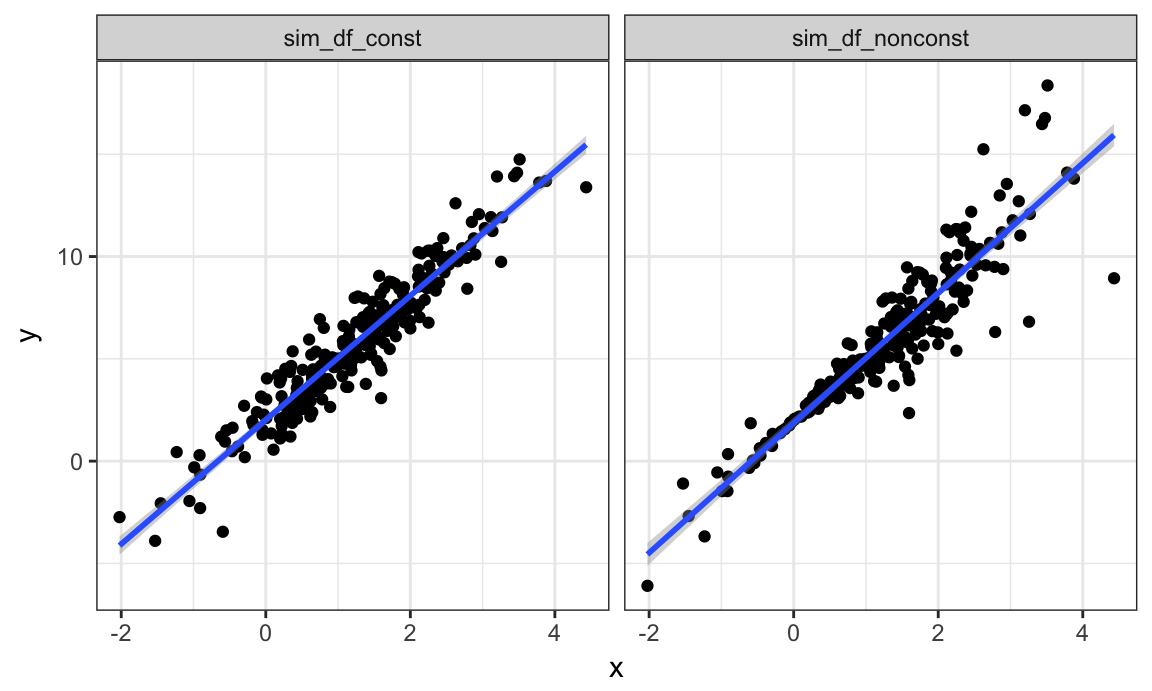
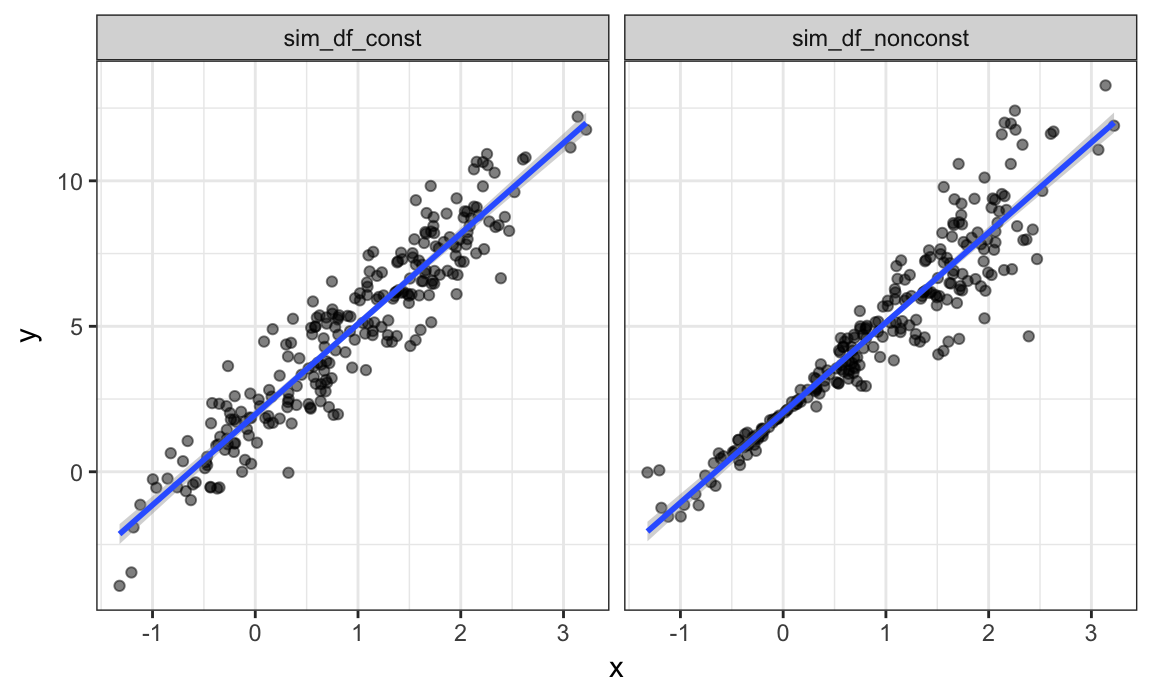
final polishing for listcols_and_bootstrapping

diff --git a/listcols_and_bootstrapping.html b/listcols_and_bootstrapping.html
@@ -695,9 +695,9 @@ instacart_nest
 <p>I’ve used another way to implement <code>nest</code> by preceding that function with a <code>group_by</code> call. I’ve also used <code>filter</code> after <code>nest</code>; in fact, data frames with list columns can be manipulated in the same ways as other data frames using <code>tidyverse</code> tools.</p>
 <p>Instead of fitting a regression, I’d like to extract a summary of <code>order_hour_of_day</code> for each department-specific data frame. The <code>summary</code> function produces a nice collection of metrics, but not a data frame; luckily the <code>broom::tidy</code> function is applicable here as well.</p>
 <pre class="r"><code>instacart_nest %&gt;% 
-  mutate(sub_df = map(data, ~summary(.x[[&quot;order_hour_of_day&quot;]])),
-         tidy_summary = map(sub_df, broom::tidy)) %&gt;% 
-  select(-data, -sub_df) %&gt;% 
+  mutate(order_hour_summary = map(data, ~summary(.x[[&quot;order_hour_of_day&quot;]])),
+         tidy_summary = map(order_hour_summary, broom::tidy)) %&gt;% 
+  select(-data, -order_hour_summary) %&gt;% 
   unnest()
 ## # A tibble: 4 x 7
 ##   department minimum    q1 median     mean    q3 maximum
@@ -717,7 +717,9 @@ instacart_nest
 <div id="bootstrapping-in-slr" class="section level3">
 <h3>Bootstrapping in SLR</h3>
 <p>Let’s look at a couple of simulated data sets. Both are generated from a simple linear regression, but they have different error distributions.</p>
-<pre class="r"><code>n_samp = 250
+<pre class="r"><code>set.seed(10)
+
+n_samp = 250
 
 sim_df_const = tibble(
   x = rnorm(n_samp, 1, 1),
@@ -736,7 +738,7 @@ bind_rows(
   mutate(sim_df_nonconst, data = &quot;sim_df_nonconst&quot;)
 ) %&gt;% 
   ggplot(aes(x = x, y = y)) + 
-  geom_point() +
+  geom_point(alpha = .5) +
   stat_smooth(method = &quot;lm&quot;) +
   facet_grid(~data) </code></pre>
 <p><img src="listcols_and_bootstrapping_files/figure-html/unnamed-chunk-17-1.png" width="90%" /></p>
@@ -748,19 +750,19 @@ bind_rows(
 ## lm(formula = y ~ x, data = sim_df_const)
 ## 
 ## Residuals:
-##     Min      1Q  Median      3Q     Max 
-## -3.7782 -0.7170 -0.0534  0.6775  2.6549 
+##      Min       1Q   Median       3Q      Max 
+## -3.00497 -0.75408 -0.05951  0.80840  2.54356 
 ## 
 ## Coefficients:
 ##             Estimate Std. Error t value Pr(&gt;|t|)    
-## (Intercept)  2.01421    0.10728   18.77   &lt;2e-16 ***
-## x            3.03431    0.06649   45.64   &lt;2e-16 ***
+## (Intercept)  1.96777    0.09435   20.86   &lt;2e-16 ***
+## x            3.11086    0.07193   43.24   &lt;2e-16 ***
 ## ---
 ## Signif. codes:  0 &#39;***&#39; 0.001 &#39;**&#39; 0.01 &#39;*&#39; 0.05 &#39;.&#39; 0.1 &#39; &#39; 1
 ## 
-## Residual standard error: 1.101 on 248 degrees of freedom
-## Multiple R-squared:  0.8936, Adjusted R-squared:  0.8932 
-## F-statistic:  2083 on 1 and 248 DF,  p-value: &lt; 2.2e-16
+## Residual standard error: 1.075 on 248 degrees of freedom
+## Multiple R-squared:  0.8829, Adjusted R-squared:  0.8824 
+## F-statistic:  1870 on 1 and 248 DF,  p-value: &lt; 2.2e-16
 lm(y ~ x, data = sim_df_nonconst) %&gt;% summary()
 ## 
 ## Call:
@@ -768,18 +770,18 @@ lm(y ~ x, data = sim_df_nonconst) %&gt;% summary()
 ## 
 ## Residuals:
 ##     Min      1Q  Median      3Q     Max 
-## -7.0010 -0.4426 -0.0113  0.4326  5.3454 
+## -4.7759 -0.4854 -0.0520  0.4214  3.3971 
 ## 
 ## Coefficients:
 ##             Estimate Std. Error t value Pr(&gt;|t|)    
-## (Intercept)  1.86558    0.13464   13.86   &lt;2e-16 ***
-## x            3.17478    0.08344   38.05   &lt;2e-16 ***
+## (Intercept)  2.03488    0.09267   21.96   &lt;2e-16 ***
+## x            3.09472    0.07066   43.80   &lt;2e-16 ***
 ## ---
 ## Signif. codes:  0 &#39;***&#39; 0.001 &#39;**&#39; 0.01 &#39;*&#39; 0.05 &#39;.&#39; 0.1 &#39; &#39; 1
 ## 
-## Residual standard error: 1.382 on 248 degrees of freedom
-## Multiple R-squared:  0.8537, Adjusted R-squared:  0.8532 
-## F-statistic:  1448 on 1 and 248 DF,  p-value: &lt; 2.2e-16</code></pre>
+## Residual standard error: 1.056 on 248 degrees of freedom
+## Multiple R-squared:  0.8855, Adjusted R-squared:  0.8851 
+## F-statistic:  1918 on 1 and 248 DF,  p-value: &lt; 2.2e-16</code></pre>
 <p>Despite the very different error structures, standard errors for coefficient estimates are similar in both cases!</p>
 <p>We’ll use the bootstrap to make inference for the data on the right. This is intended largely as an illustration for how to use the bootstrap in cases where the theoretical distribution is “unknown”, although for these data in particular weighted least squares is more appropriate.</p>
 </div>
@@ -792,18 +794,18 @@ lm(y ~ x, data = sim_df_nonconst) %&gt;% summary()
 <p>We should also do a quick check to see if this is working.</p>
 <pre class="r"><code>boot_sample(sim_df_nonconst)
 ## # A tibble: 250 x 3
-##            x        error        y
-##        &lt;dbl&gt;        &lt;dbl&gt;    &lt;dbl&gt;
-##  1 0.8143844  0.378151316 4.821305
-##  2 2.5324943  0.003005011 9.600488
-##  3 0.7643021 -0.406254684 3.886652
-##  4 0.4130584 -0.073713187 3.165462
-##  5 0.4468188 -0.189337605 3.151119
-##  6 1.7516382  0.113639546 7.368554
-##  7 0.3410232 -0.466086551 2.556983
-##  8 1.4392126 -0.356144561 5.961493
-##  9 0.5995801  0.963949357 4.762690
-## 10 1.7566668  0.161468988 7.431470
+##              x       error          y
+##          &lt;dbl&gt;       &lt;dbl&gt;      &lt;dbl&gt;
+##  1  1.33087649 -1.52057755  4.4720519
+##  2  0.69118694  0.63736907  4.7109299
+##  3  0.16967735  0.30451734  2.8135494
+##  4 -0.06262279  0.02647935  1.8386110
+##  5 -0.96325249 -0.24764635 -1.1374038
+##  6  1.71289428 -2.57029515  4.5683877
+##  7  2.12795361  3.21121251 11.5950734
+##  8  1.65522764  1.58117805  8.5468610
+##  9 -0.70365949 -0.24969978 -0.3606783
+## 10 -0.70365949 -0.24969978 -0.3606783
 ## # ... with 240 more rows</code></pre>
 <p>That looks about right.</p>
 </div>
@@ -812,12 +814,12 @@ lm(y ~ x, data = sim_df_nonconst) %&gt;% summary()
 <p>We’re going to draw repeated samples with replacement, and then analyze each of those samples separately. It would be really great to have a data structure that makes it possible to keep track of everything. Maybe a <strong><em>list column</em></strong>??!</p>
 <p>Let’s give that a try:</p>
 <pre class="r"><code>boot_straps = data_frame(
-  strap_number = 1:100,
-  strap_sample = rerun(100, boot_sample(sim_df_nonconst))
+  strap_number = 1:1000,
+  strap_sample = rerun(1000, boot_sample(sim_df_nonconst))
 )
 
 boot_straps
-## # A tibble: 100 x 2
+## # A tibble: 1,000 x 2
 ##    strap_number       strap_sample
 ##           &lt;int&gt;             &lt;list&gt;
 ##  1            1 &lt;tibble [250 x 3]&gt;
@@ -830,7 +832,7 @@ boot_straps
 ##  8            8 &lt;tibble [250 x 3]&gt;
 ##  9            9 &lt;tibble [250 x 3]&gt;
 ## 10           10 &lt;tibble [250 x 3]&gt;
-## # ... with 90 more rows</code></pre>
+## # ... with 990 more rows</code></pre>
 <p>We can do a few of quick checks to make sure this has worked as intended. First we’ll look at a couple of bootstrap samples.</p>
 <pre class="r"><code>boot_straps %&gt;% 
   filter(strap_number %in% 1:2) %&gt;% 
@@ -838,41 +840,41 @@ boot_straps
   pull(strap_sample)
 ## [[1]]
 ## # A tibble: 250 x 3
-##             x       error          y
-##         &lt;dbl&gt;       &lt;dbl&gt;      &lt;dbl&gt;
-##  1 -1.5308715  1.49730217 -1.0953124
-##  2 -1.5308715  1.49730217 -1.0953124
-##  3 -1.2329380 -1.97958137 -3.6783954
-##  4 -1.2329380 -1.97958137 -3.6783954
-##  5 -0.9901198 -0.49614878 -1.4665082
-##  6 -0.9901198 -0.49614878 -1.4665082
-##  7 -0.9083691  1.06963768  0.3445302
-##  8 -0.9060899 -0.03923387 -0.7575034
-##  9 -0.9060899 -0.03923387 -0.7575034
-## 10 -0.6164885 -0.48290977 -0.3323753
+##             x      error          y
+##         &lt;dbl&gt;      &lt;dbl&gt;      &lt;dbl&gt;
+##  1 -1.1190612 -0.1869410 -1.5441245
+##  2 -1.1190612 -0.1869410 -1.5441245
+##  3 -0.7590868  0.1464988 -0.1307615
+##  4 -0.6753322  0.3238676  0.2978710
+##  5 -0.6753322  0.3238676  0.2978710
+##  6 -0.6580509 -0.5091784 -0.4833310
+##  7 -0.6066772  0.2805913  0.4605596
+##  8 -0.6066772  0.2805913  0.4605596
+##  9 -0.6066772  0.2805913  0.4605596
+## 10 -0.4899362  0.1486100  0.6788013
 ## # ... with 240 more rows
 ## 
 ## [[2]]
 ## # A tibble: 250 x 3
 ##             x       error          y
 ##         &lt;dbl&gt;       &lt;dbl&gt;      &lt;dbl&gt;
-##  1 -2.0234321 -2.02348598 -6.0937823
-##  2 -2.0234321 -2.02348598 -6.0937823
-##  3 -1.2329380 -1.97958137 -3.6783954
-##  4 -0.9164560 -0.71560010 -1.4649682
-##  5 -0.9083691  1.06963768  0.3445302
-##  6 -0.9083691  1.06963768  0.3445302
-##  7 -0.6164885 -0.48290977 -0.3323753
-##  8 -0.5944465  1.63525512  1.8519156
-##  9 -0.5944465  1.63525512  1.8519156
-## 10 -0.4682730  0.03944407  0.6346249
+##  1 -1.3210170  1.93841419 -0.0246369
+##  2 -0.8537405 -0.20970649 -0.7709279
+##  3 -0.8537405 -0.20970649 -0.7709279
+##  4 -0.7590868  0.14649877 -0.1307615
+##  5 -0.6580509 -0.50917842 -0.4833310
+##  6 -0.6266727  0.51447419  0.6344561
+##  7 -0.5800008  0.27154449  0.5315422
+##  8 -0.4899362  0.14861002  0.6788013
+##  9 -0.4798270  0.08344474  0.6439637
+## 10 -0.4686977  0.02825628  0.6221630
 ## # ... with 240 more rows</code></pre>
 <p>Seems okay – some values are repeated, some don’t appear in both datasets. Next I’ll use ggplot to show some of these datasets, and to include a linear fit for each.</p>
 <pre class="r"><code>boot_straps %&gt;% 
   filter(strap_number %in% 1:3) %&gt;% 
   unnest() %&gt;% 
   ggplot(aes(x = x, y = y)) + 
-  geom_point() +
+  geom_point(alpha = .5) +
   stat_smooth(method = &quot;lm&quot;, se = FALSE) +
   facet_grid(~strap_number) </code></pre>
 <p><img src="listcols_and_bootstrapping_files/figure-html/unnamed-chunk-23-1.png" width="90%" /></p>
@@ -889,15 +891,23 @@ boot_straps
   select(-strap_sample, -models) %&gt;% 
   unnest() %&gt;% 
   group_by(term) %&gt;% 
-  summarize(boot_se = sd(estimate))</code></pre>
+  summarize(boot_se = sd(estimate))
+
+bootstrap_results
+## # A tibble: 2 x 2
+##          term    boot_se
+##         &lt;chr&gt;      &lt;dbl&gt;
+## 1 (Intercept) 0.05243624
+## 2           x 0.08219472</code></pre>
 <p>Comparing these to the results of ordinary least squares, we see that the standard error for the intercept is much smaller and the standard error for the intercept is a bit larger. This is reasonable, given the non-constant variance in the data given smaller residuals around zero and larger residuals in the the tails of the <code>x</code> distribution.</p>
 <p>In this case, we can expand the three-panel plot we showed previously to visualize the results of our bootstrap process.</p>
 <pre class="r"><code>boot_straps %&gt;% 
   unnest() %&gt;% 
   ggplot(aes(x = x, y = y)) + 
-  geom_line(aes(group = strap_number), stat = &quot;smooth&quot;, method = &quot;lm&quot;, se = FALSE, alpha = .2, color = &quot;blue&quot;) +
-  geom_point(data = sim_df_nonconst)</code></pre>
+  geom_line(aes(group = strap_number), stat = &quot;smooth&quot;, method = &quot;lm&quot;, se = FALSE, alpha = .1, color = &quot;blue&quot;) +
+  geom_point(data = sim_df_nonconst, alpha = .5)</code></pre>
 <p><img src="listcols_and_bootstrapping_files/figure-html/unnamed-chunk-25-1.png" width="90%" /></p>
+<p>In comparison to the standard error bands in our previous plot (which are based on OLS), the distribution of regression lines is narrower near <span class="math inline">\(x = 0\)</span> and wider at the ends of the <span class="math inline">\(x\)</span> distribution.</p>
 </div>
 <div id="bootstrap" class="section level3">
 <h3><code>bootstrap</code></h3>
@@ -906,28 +916,28 @@ boot_straps
 
 boot_straps = 
   sim_df_nonconst %&gt;% 
-  bootstrap(n = 100)
+  bootstrap(n = 1000)
 
 boot_straps$strap[[1]]
-## &lt;resample [250 x 3]&gt; 243, 50, 152, 185, 171, 189, 30, 135, 188, 39, ...
+## &lt;resample [250 x 3]&gt; 77, 192, 117, 181, 71, 156, 25, 164, 5, 190, ...
 as_data_frame(boot_straps$strap[[1]])
 ## # A tibble: 250 x 3
-##             x       error         y
-##         &lt;dbl&gt;       &lt;dbl&gt;     &lt;dbl&gt;
-##  1  1.5914236 -0.06631404  6.707957
-##  2  2.7171293  0.51787611 10.669264
-##  3  3.7832655  0.75271387 14.102510
-##  4  0.7061986 -0.36579665  3.752799
-##  5  0.2119224  0.22232217  2.858089
-##  6  0.6205200 -0.43105296  3.430507
-##  7  0.4293864  0.09282566  3.380985
-##  8  1.0442217 -0.07629384  5.056371
-##  9  2.7794938 -0.84352300  9.494959
-## 10 -0.9164560 -0.71560010 -1.464968
+##             x       error          y
+##         &lt;dbl&gt;       &lt;dbl&gt;      &lt;dbl&gt;
+##  1 -0.4798270  0.08344474  0.6439637
+##  2  1.9953319 -1.13638627  6.8496093
+##  3  2.0399236  1.27244930  9.3922201
+##  4  1.4255131 -0.13224292  6.1442964
+##  5  1.3809222  1.09301221  7.2357789
+##  6 -1.3210170  1.93841419 -0.0246369
+##  7 -0.2651980 -0.48330556  0.7211004
+##  8  0.3005969  0.33207021  3.2338610
+##  9  1.2945451 -0.66055573  5.2230797
+## 10  1.0463614 -0.01826971  5.1208146
 ## # ... with 240 more rows</code></pre>
 <p>Let’s repeat our analysis pipeline using the <code>bootstrap</code> function instead of our own process for drawing samples with replacement.</p>
 <pre class="r"><code>sim_df_nonconst %&gt;% 
-  bootstrap(n = 100) %&gt;% 
+  bootstrap(n = 1000) %&gt;% 
   mutate(models = map(strap, ~lm(y ~ x, data = .x) ),
          results = map(models, broom::tidy)) %&gt;% 
   select(-strap, -models) %&gt;% 
@@ -935,11 +945,26 @@ as_data_frame(boot_straps$strap[[1]])
   group_by(term) %&gt;% 
   summarize(boot_se = sd(estimate))
 ## # A tibble: 2 x 2
-##          term   boot_se
-##         &lt;chr&gt;     &lt;dbl&gt;
-## 1 (Intercept) 0.1191009
-## 2           x 0.1336142</code></pre>
+##          term    boot_se
+##         &lt;chr&gt;      &lt;dbl&gt;
+## 1 (Intercept) 0.05449120
+## 2           x 0.08205595</code></pre>
 <p>The results are the same (up to resampling variability), and the code to get here is pretty clean.</p>
+<p>Also, check this out – to bootstrap the dataset with constant error variance, we only have to change the input dataframe!</p>
+<pre class="r"><code>sim_df_const %&gt;% 
+  bootstrap(n = 1000) %&gt;% 
+  mutate(models = map(strap, ~lm(y ~ x, data = .x) ),
+         results = map(models, broom::tidy)) %&gt;% 
+  select(-strap, -models) %&gt;% 
+  unnest() %&gt;% 
+  group_by(term) %&gt;% 
+  summarize(boot_se = sd(estimate))
+## # A tibble: 2 x 2
+##          term    boot_se
+##         &lt;chr&gt;      &lt;dbl&gt;
+## 1 (Intercept) 0.08713572
+## 2           x 0.06521388</code></pre>
+<p>These results generally agree with the output of the OLS procedure, which is nice.</p>
 </div>
 </div>
 <div id="other-materials" class="section level2">
